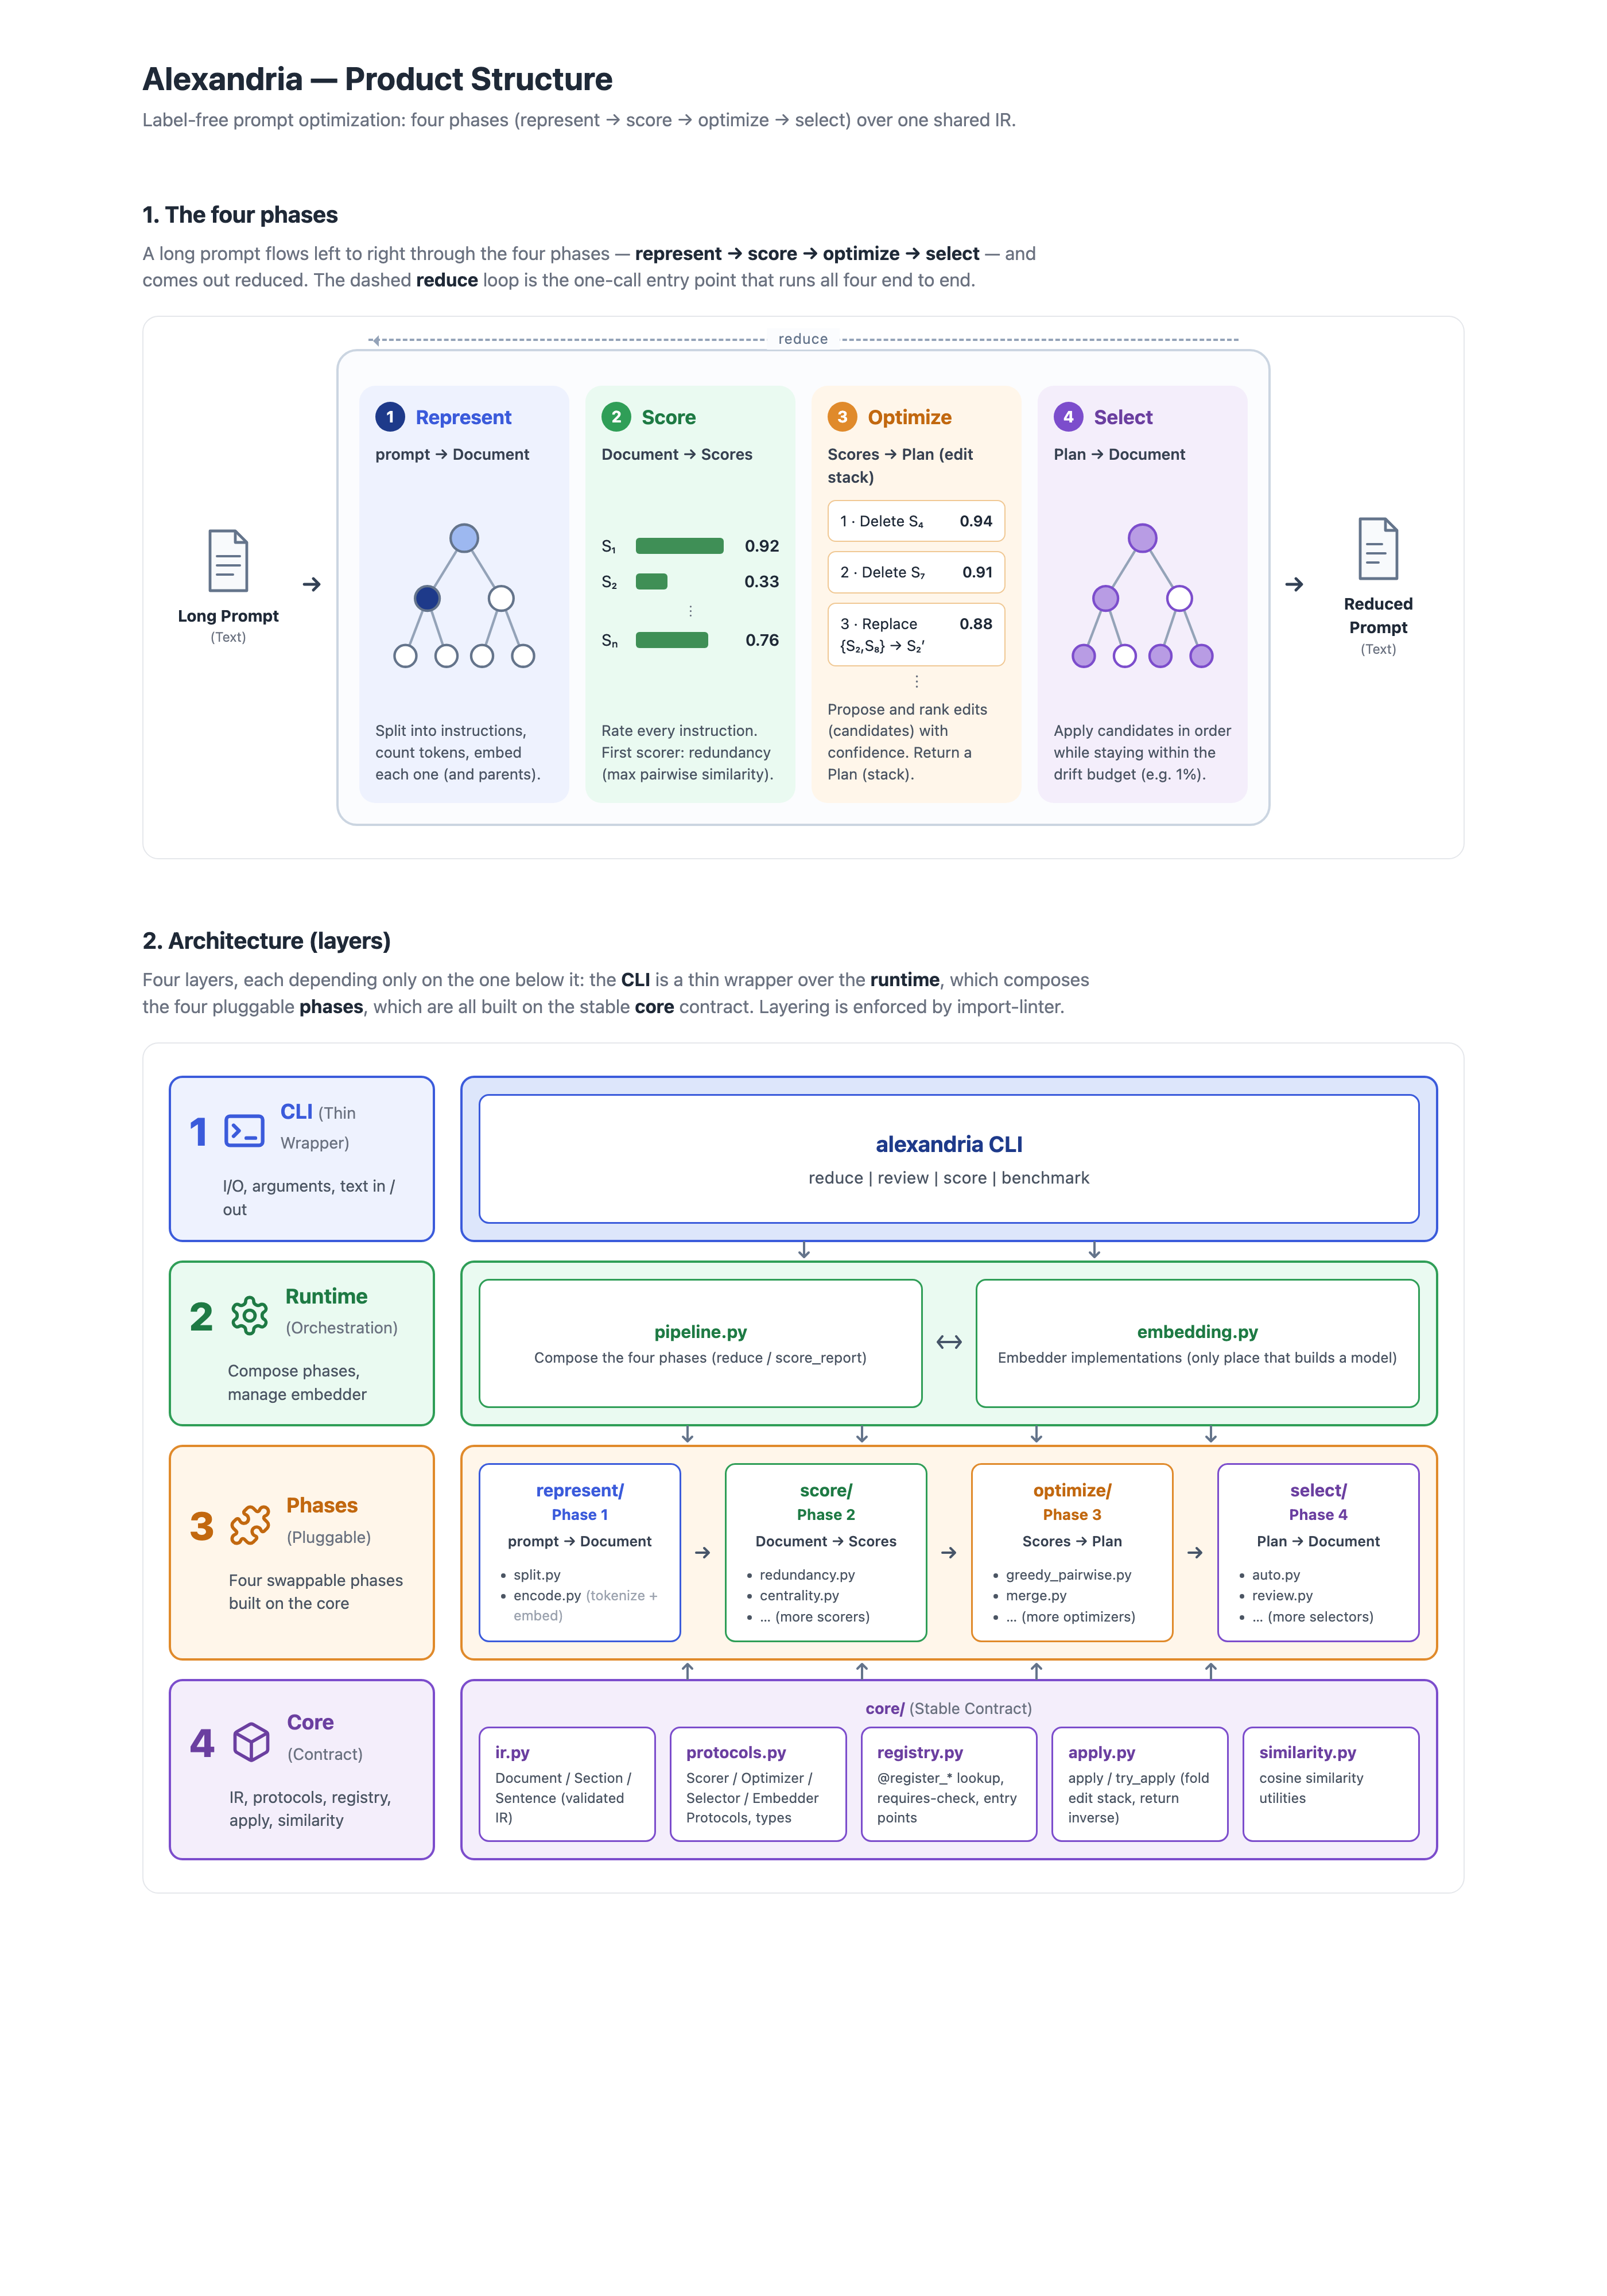
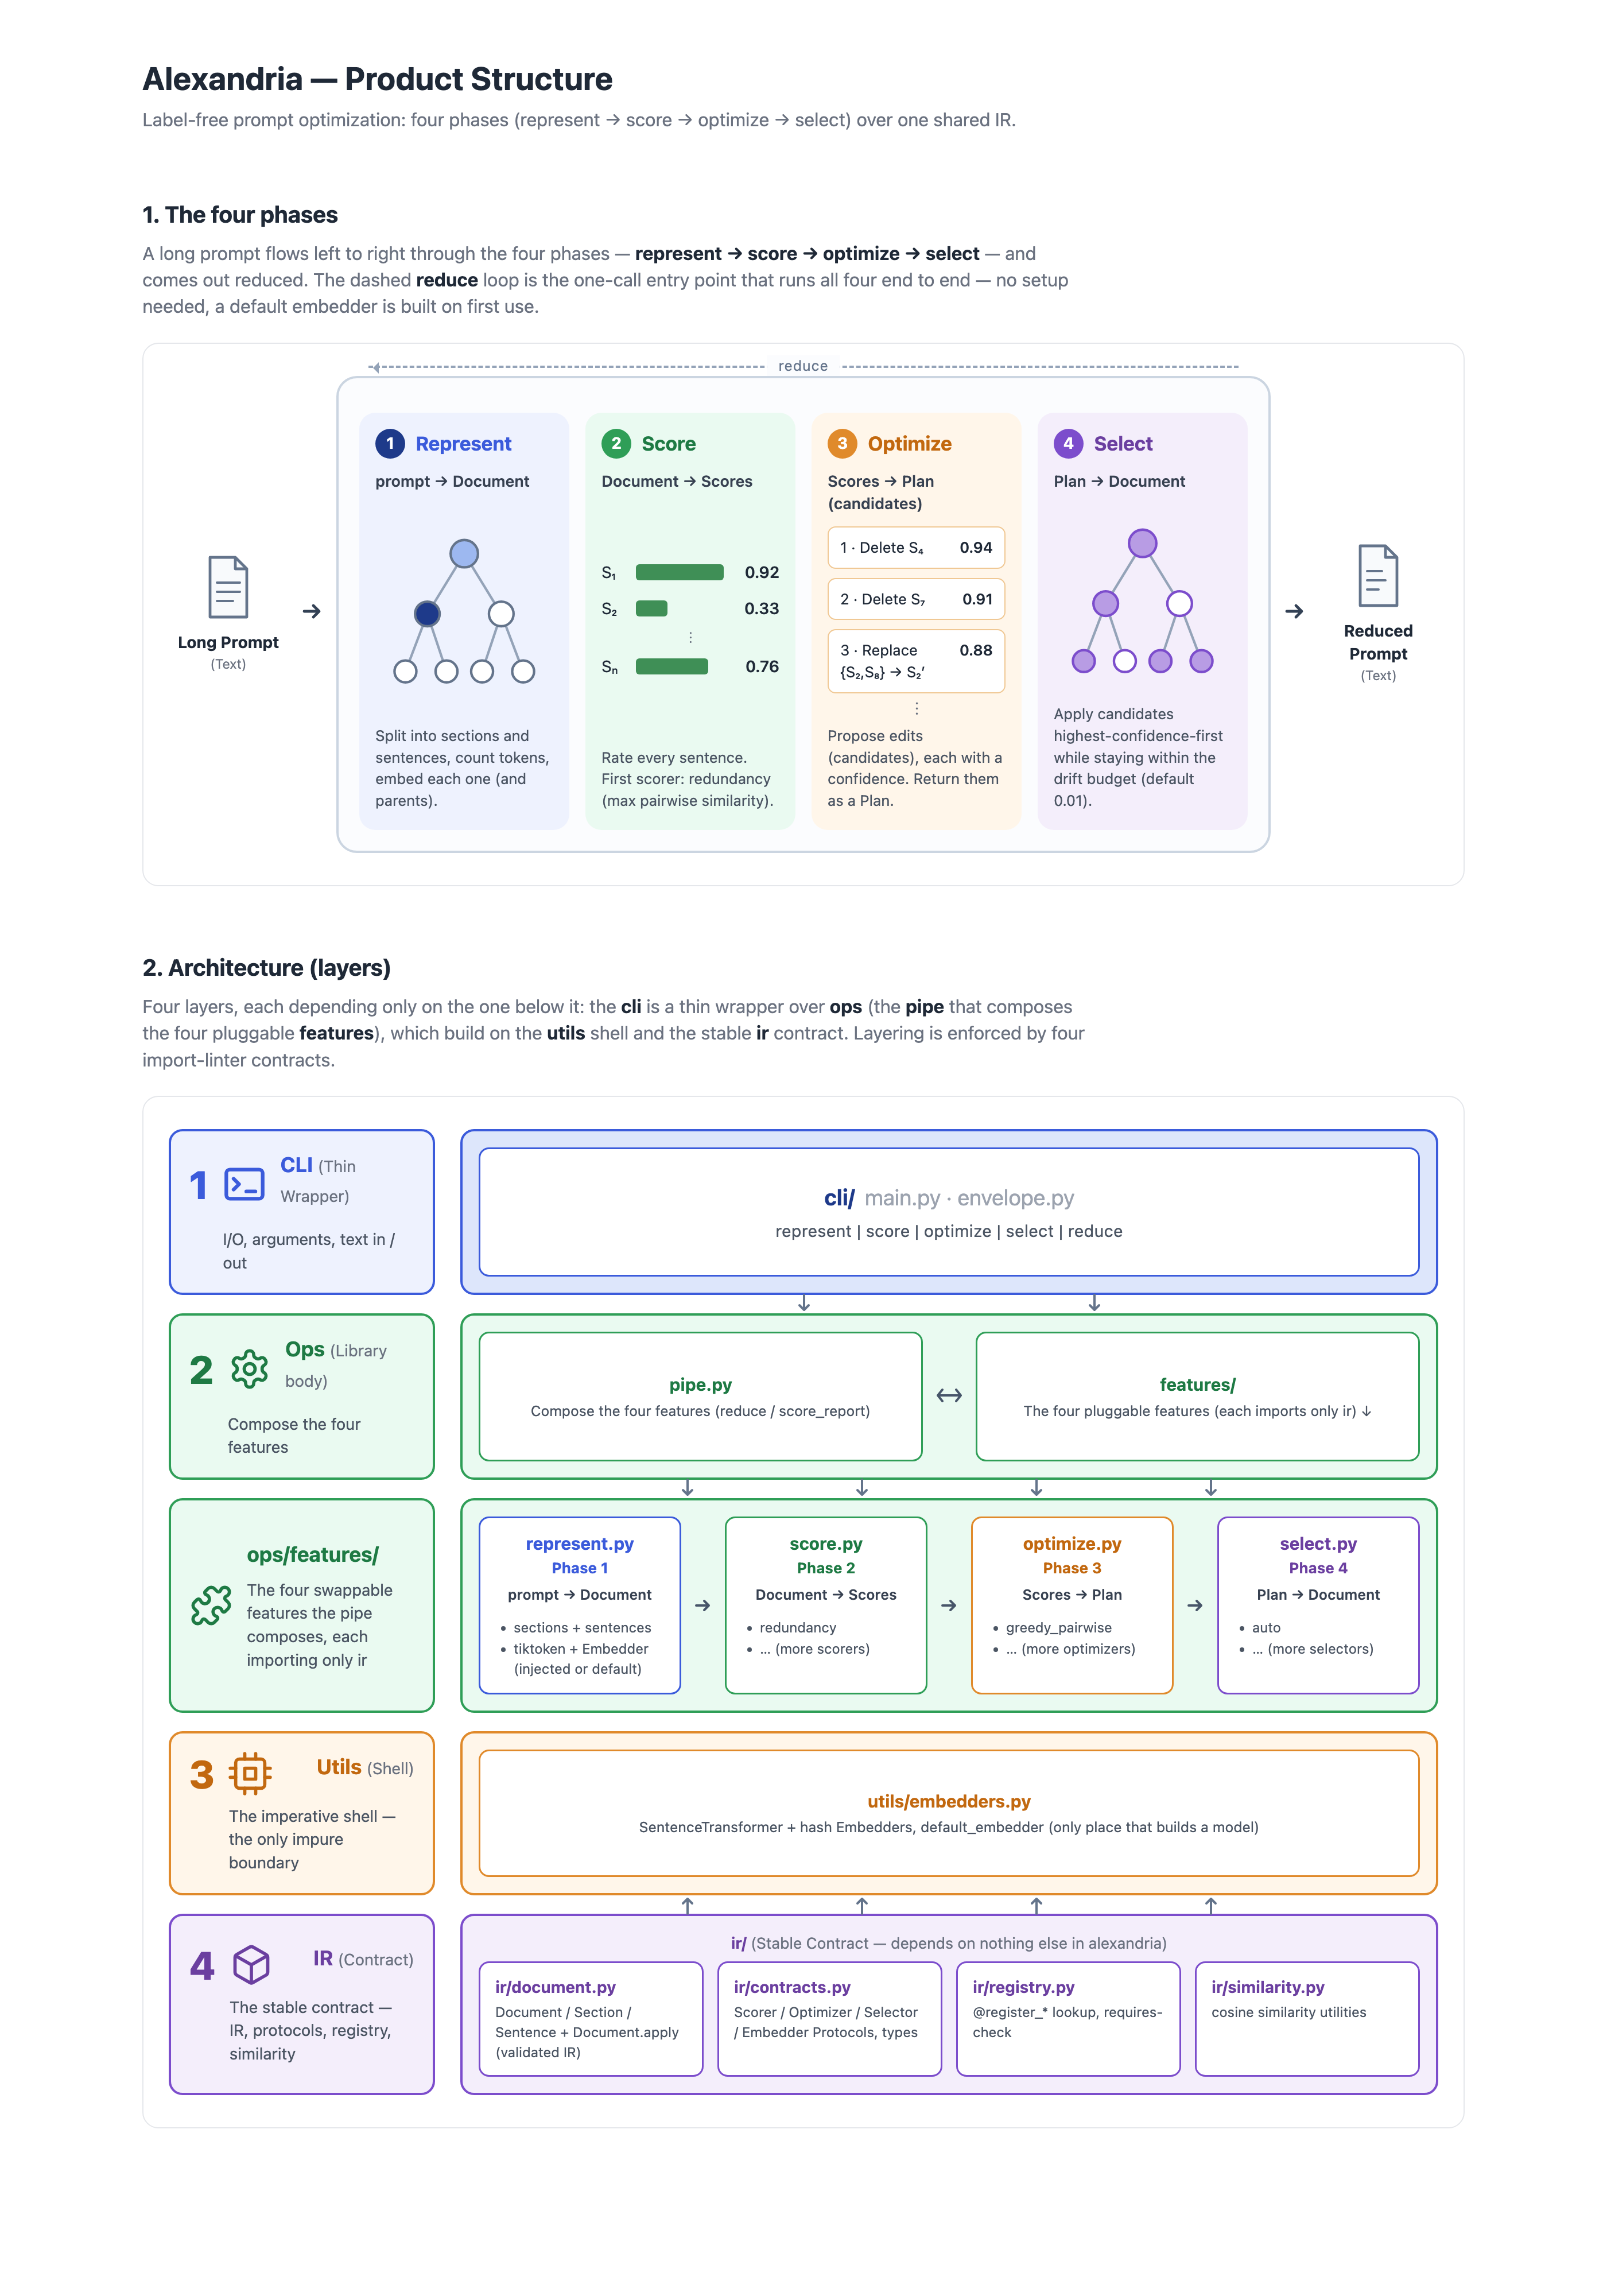
docs: update documentation for clarity and accuracy in product structure and specifications

diff --git a/docs/product-structure.html b/docs/product-structure.html
@@ -142,7 +142,8 @@
     <p class="lead">
       A long prompt flows left to right through the four phases —
       <b>represent → score → optimize → select</b> — and comes out reduced. The dashed
-      <b>reduce</b> loop is the one-call entry point that runs all four end to end.
+      <b>reduce</b> loop is the one-call entry point that runs all four end to end —
+      no setup needed, a default embedder is built on first use.
     </p>
     <section class="figure">
       <div class="pipeline">
@@ -180,7 +181,7 @@
               </g>
             </svg>
             </div>
-            <div class="desc">Split into instructions, count tokens, embed each one (and parents).</div>
+            <div class="desc">Split into sections and sentences, count tokens, embed each one (and parents).</div>
           </div>
 
           <div class="stage s-sco">
@@ -194,12 +195,12 @@
               <div class="bar"><span>Sₙ</span><i style="width:76%"></i><b>0.76</b></div>
             </div>
             </div>
-            <div class="desc">Rate every instruction. First scorer: redundancy (max pairwise similarity).</div>
+            <div class="desc">Rate every sentence. First scorer: redundancy (max pairwise similarity).</div>
           </div>
 
           <div class="stage s-opt">
             <div class="hd"><span class="badge">3</span><h3>Optimize</h3></div>
-            <div class="io">Scores → Plan (edit stack)</div>
+            <div class="io">Scores → Plan (candidates)</div>
             <div class="body">
             <div class="edits">
               <div class="edit"><span>1 · Delete S₄</span><b>0.94</b></div>
@@ -208,7 +209,7 @@
               <div class="dots">⋮</div>
             </div>
             </div>
-            <div class="desc">Propose and rank edits (candidates) with confidence. Return a Plan (stack).</div>
+            <div class="desc">Propose edits (candidates), each with a confidence. Return them as a Plan.</div>
           </div>
 
           <div class="stage s-sel">
@@ -230,7 +231,7 @@
               </g>
             </svg>
             </div>
-            <div class="desc">Apply candidates in order while staying within the drift budget (e.g. 1%).</div>
+            <div class="desc">Apply candidates highest-confidence-first while staying within the drift budget (default 0.01).</div>
           </div>
         </div>
 
@@ -312,7 +313,7 @@
           <div class="cell ph-cell ph-rep">
             <div class="hd"><div class="pnm">represent.py</div><div class="phase">Phase 1</div></div>
             <div class="io">prompt → Document</div>
-            <ul><li>split into sections</li><li>tiktoken + injected Embedder</li></ul>
+            <ul><li>sections + sentences</li><li>tiktoken + Embedder (injected or default)</li></ul>
           </div>
           <div class="hsep"><svg width="14" height="12" viewBox="0 0 14 12" fill="none" stroke="#475569" stroke-width="2" stroke-linecap="round" stroke-linejoin="round"><path d="M1 6h10M8 2l4 4-4 4"/></svg></div>
           <div class="cell ph-cell ph-sco">
@@ -344,7 +345,7 @@
         <div class="band b-ut">
           <div class="cell ut-cell">
             <div class="nm">utils/embedders.py</div>
-            <div class="ds">Embedder implementations (only place that builds a model)</div>
+            <div class="ds">SentenceTransformer + hash Embedders, default_embedder (only place that builds a model)</div>
           </div>
         </div>
 

diff --git a/docs/spec-v2.md b/docs/spec-v2.md
@@ -75,7 +75,7 @@ gate — which is exactly where v1 used embedding cosine and v2 uses decoder JSD
 Five touch points. Everything else (IR, `apply`, `redundancy`, `greedy_pairwise`, all invariants,
 Parquet) is untouched. New strategies are **new files**, per spec.md's "one strategy, one file" rule.
 
-**1. `core/protocols.py` — a second impure boundary, beside `Embedder`.**
+**1. `ir/contracts.py` — a second impure boundary, beside `Embedder`.**
 
 ```python
 type Signature = NDArray[np.float32]          # (probe_len, top_k+1): per-position top-k logprobs + tail
@@ -100,16 +100,16 @@ chosen optimizer asks for it:
 (prefix length). **The default `max_behavioral_drift` has no literature constant** — it must be
 calibrated (see Evaluation); ship it flagged as provisional, not authoritative.
 
-**2. `core/divergence.py` — new, pure.** `token_jsd(a, b)` and
+**2. `ir/divergence.py` — new, pure.** `token_jsd(a, b)` and
 `max_token_jsd(sig_a, sig_b, *, tail="uniform")` over arrays. No model in the loop, so it is tested
 on hand-written distributions exactly like `similarity.py`.
 
-**3. `runtime/decoding.py` — new, the only place a generative model is built.** `build_decoder(model)`
+**3. `utils/decoding.py` — new, the only place a generative model is built.** `build_decoder(model)`
 returning a `Decoder`, plus a deterministic `HashDecoder` fake so the whole pipeline stays a pure
 function under test (the v1 `HashEmbedder` pattern). The `import-linter` forbidden contract extends:
-`core`, the `phases`, and `pipeline` may not import a generative backend — only this shell may.
+`ir`, `ops`, and `cli` may not import a generative backend — only this shell may.
 
-**4. `phases/optimize/behavioral_pairwise.py` — new, one file.** Same candidate ranking as
+**4. `ops/features/optimize/behavioral_pairwise.py` — new, one file.** Same candidate ranking as
 `greedy_pairwise` (redundant pairs, sorted by similarity), but the drop-safety guard swaps cosine
 drift for behavioral drift:
 
@@ -160,7 +160,7 @@ to aspirational:
 
 ## Stretch: a behavioral redundancy scorer
 
-`phases/score/behavioral_redundancy.py` (one file) makes **Tier 1 itself** behavioral: a sentence is
+`ops/features/score/behavioral_redundancy.py` (one file) makes **Tier 1 itself** behavioral: a sentence is
 redundant iff the model still predicts the probe ≈ as well without it — pointwise mutual information
 between a sentence and the rest, computed from the LM (Padmakumar & He, PMI summarization
 [2102.06272]). Or estimate it in constant passes with ContextCite. A genuine unclaimed variant:

diff --git a/docs/tech-stack.md b/docs/tech-stack.md
@@ -17,7 +17,7 @@ Scoped to what the team can learn in a five-week course and to what the pipeline
 | Reporting | Polars | Benchmark tables; lighter than pandas, already used for Parquet I/O. |
 | Token metric | `tiktoken` | A **model-independent proxy** for token reduction, not an exact Claude count. |
 | Plugin discovery | Python entry points | One registry discovers built-in **and** third-party scorers/optimizers by name; adding one never edits Alexandria. |
-| CLI | [`click`](https://github.com/pallets/click) | Verbs `reduce` / `score` / `review` / `benchmark`; text in, text out, `--json` for machine-readable scores. |
+| CLI | [`click`](https://github.com/pallets/click) | Verbs `represent` / `score` / `optimize` / `select` / `reduce`; text in, text out, `--json` for machine-readable output. |
 | Quality gates | `ruff`, `pyright` (strict), `pytest` + `pytest-cov` | Configured in `pyproject.toml`; coverage gated at 80%. |
 | CI | GitHub Actions | Runs lint + types + tests. |
 